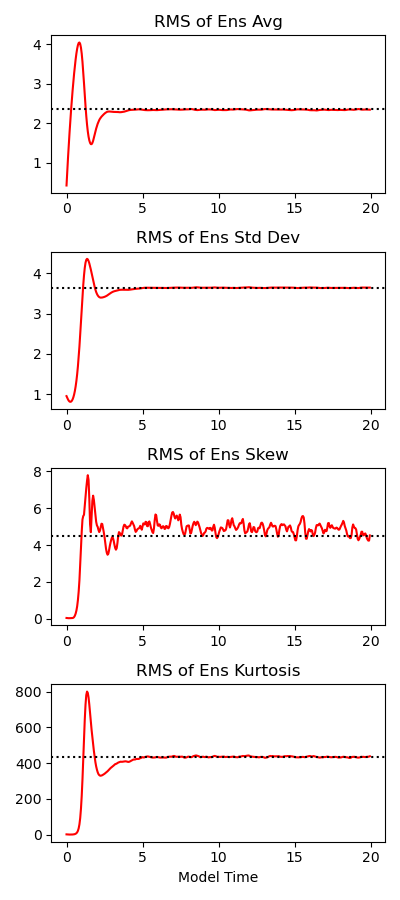
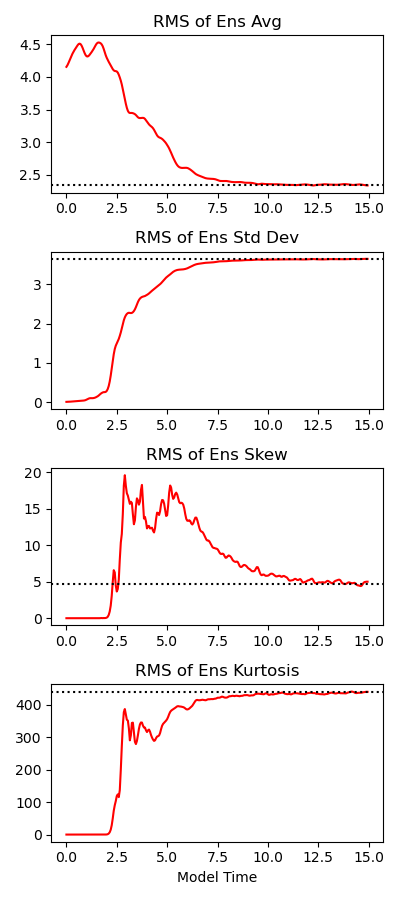
ok.. turns out a spin-up is necessary to produce results that makes sense....

diff --git a/run_lorenz96_to_eqbm.py b/run_lorenz96_to_eqbm.py
@@ -19,7 +19,7 @@ import lorenz96_model as l96
 num_gridpts = 40
 
 # Number of ensemble members
-num_ens = 2000
+num_ens = 4000
 
 # Example forcing function
 # Imposes a constant F value of 8
@@ -42,17 +42,19 @@ def constant_forcing_10( tau ):
 '''
     Prep an ensemble of initial model states
 '''
+np.random.seed(0)
+
 # Prep a reference state using the desired forcing
 x_single = np.random.normal( loc=0, scale=1e-1, size=(1, num_gridpts) )
 
-# # Spin-up that reference state
-# x_single, _ = l96.multistep( 
-#     x_single, 0, constant_forcing_8, 1000
-# )
+# Spin-up that reference state
+x_single, _ = l96.multistep( 
+    x_single, 0, constant_forcing_8, 1000
+)
 
 
 # Sample from random noise
-x_ens2d_init = x_single + np.random.normal( loc=0, scale=1, size=(num_ens, num_gridpts) )
+x_ens2d_init = x_single + np.random.normal( loc=0, scale=1e-2, size=(num_ens, num_gridpts) )
 
 
 '''
@@ -60,7 +62,7 @@ x_ens2d_init = x_single + np.random.normal( loc=0, scale=1, size=(num_ens, num_g
 '''
 
 # Total number of steps to run ensemble for
-tot_num_steps = 400
+tot_num_steps = 300
 
 # Measures of equilibration
 tseries_sqmean = np.zeros( tot_num_steps, dtype='f8' )
@@ -152,3 +154,4 @@ plt.savefig( 'eqbm_check_forcing_8.png' )
 
 
 
+# print( x_ens2d_forcing_8[0,:])